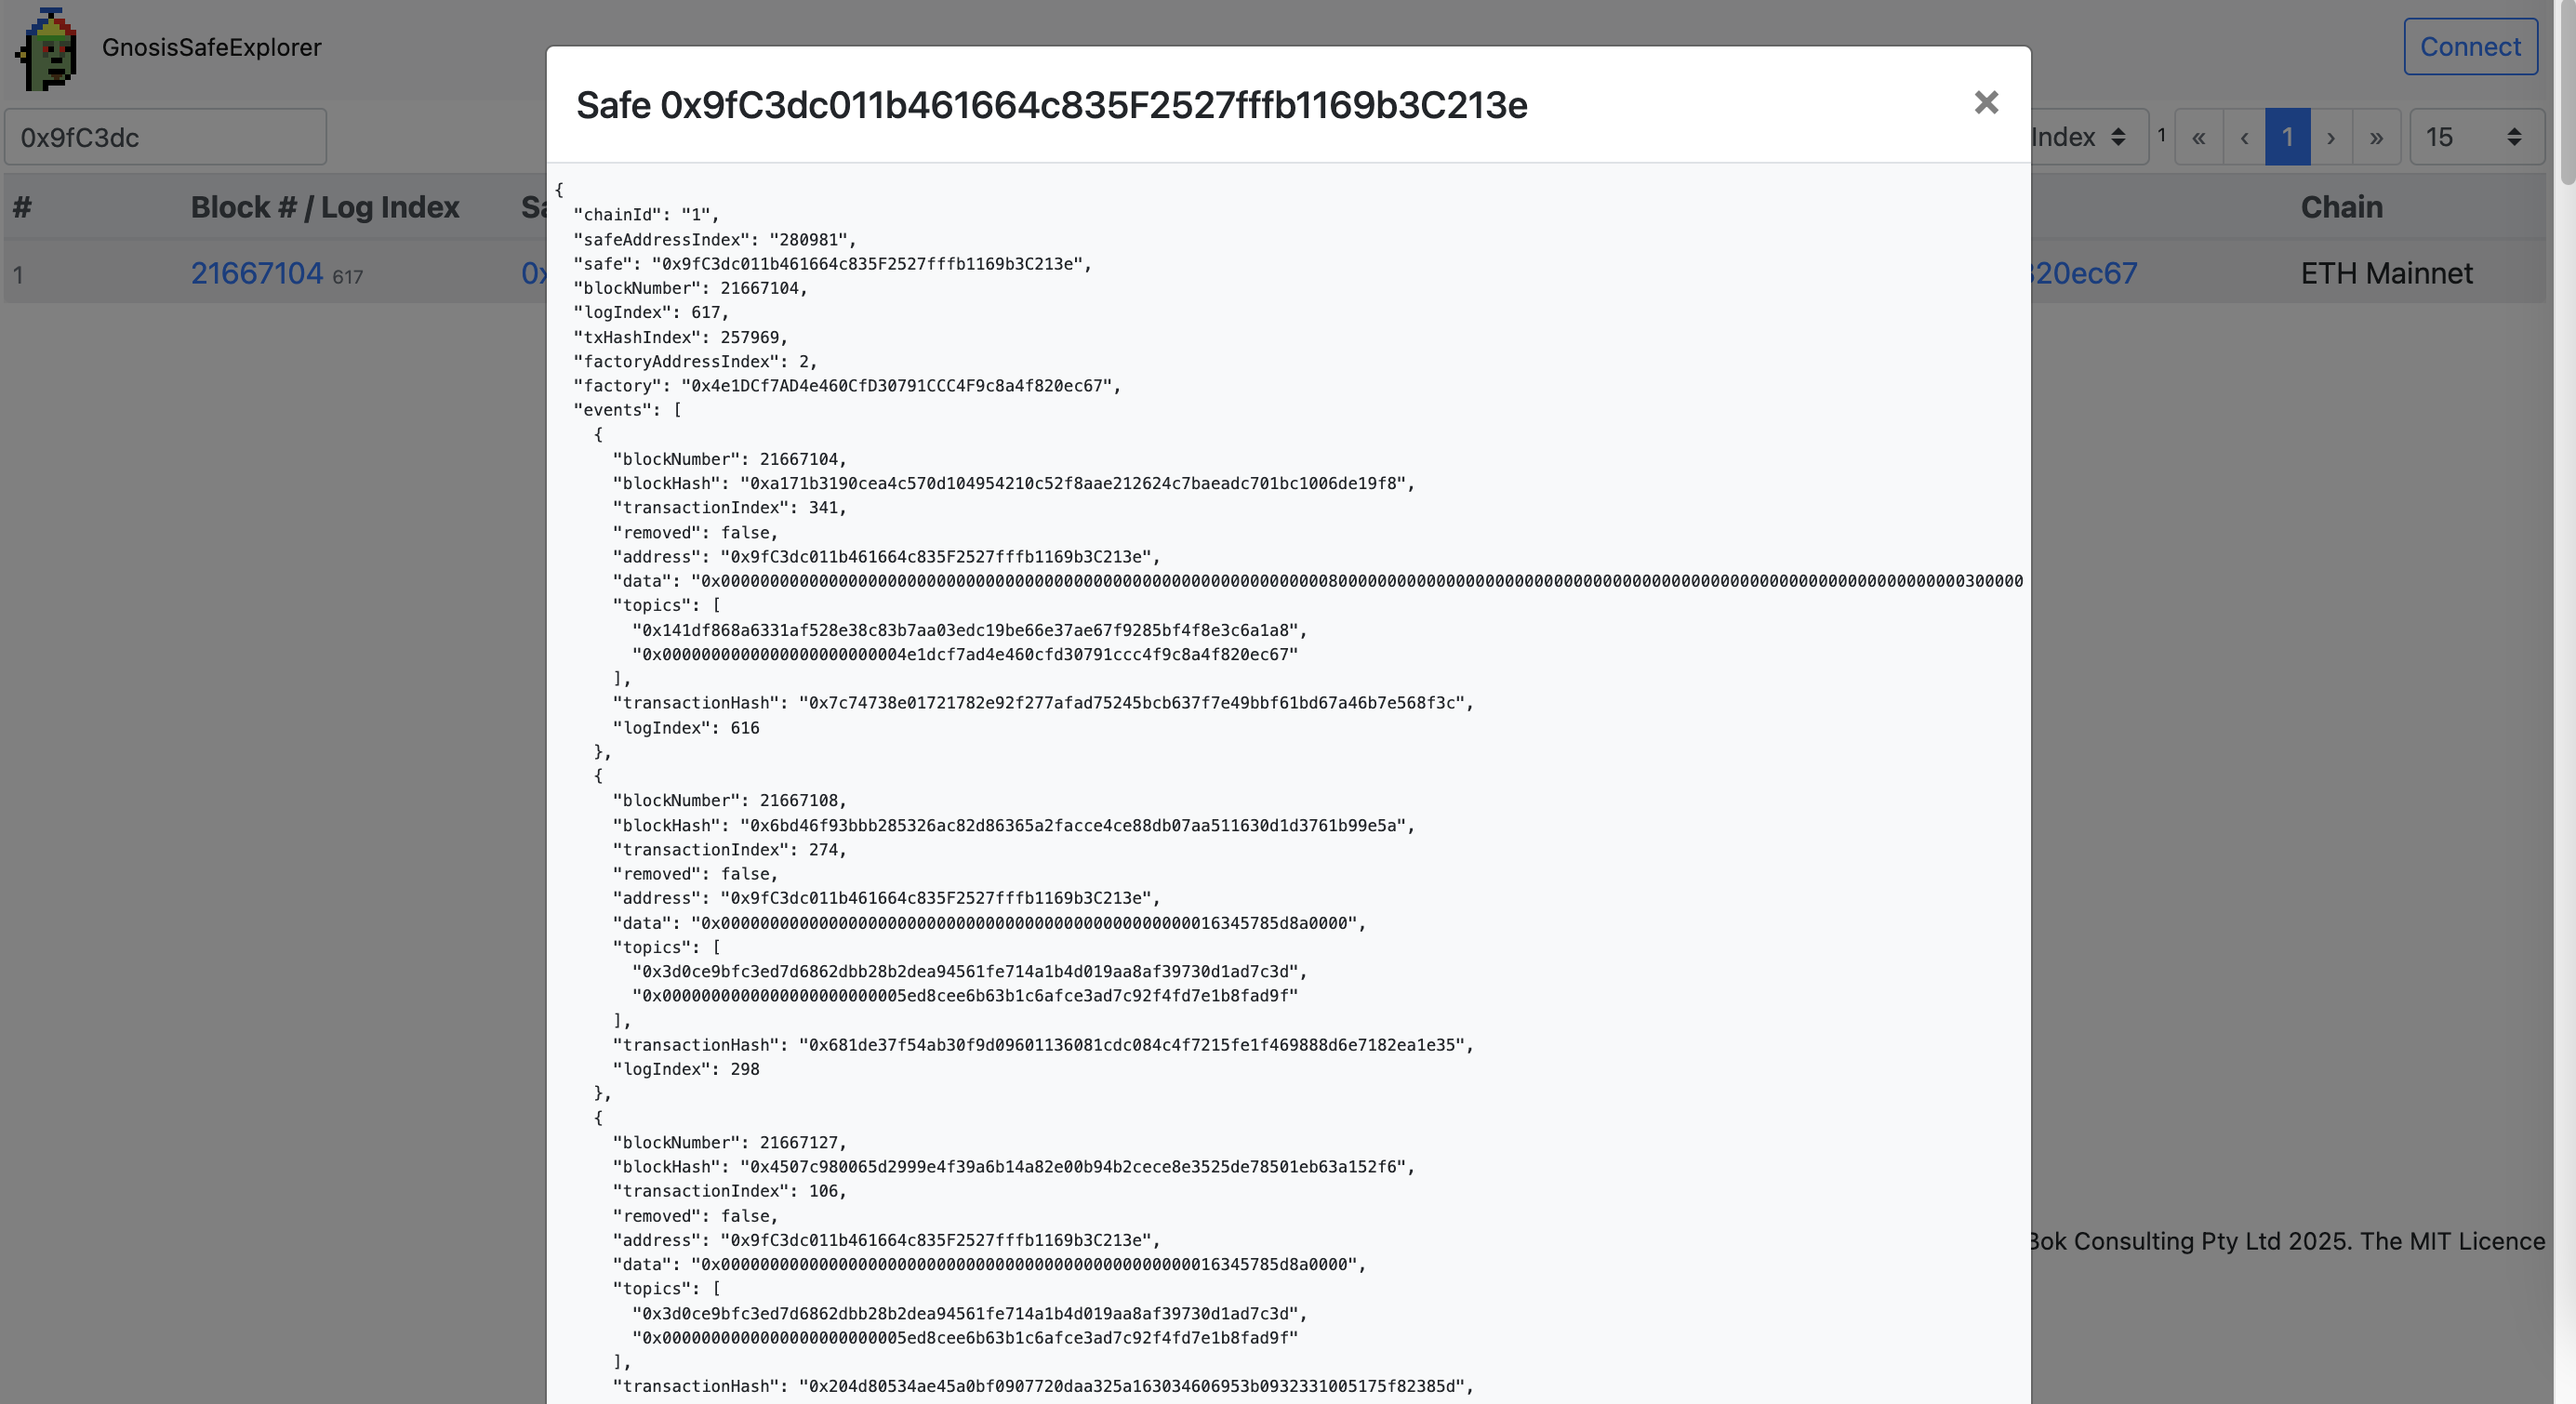
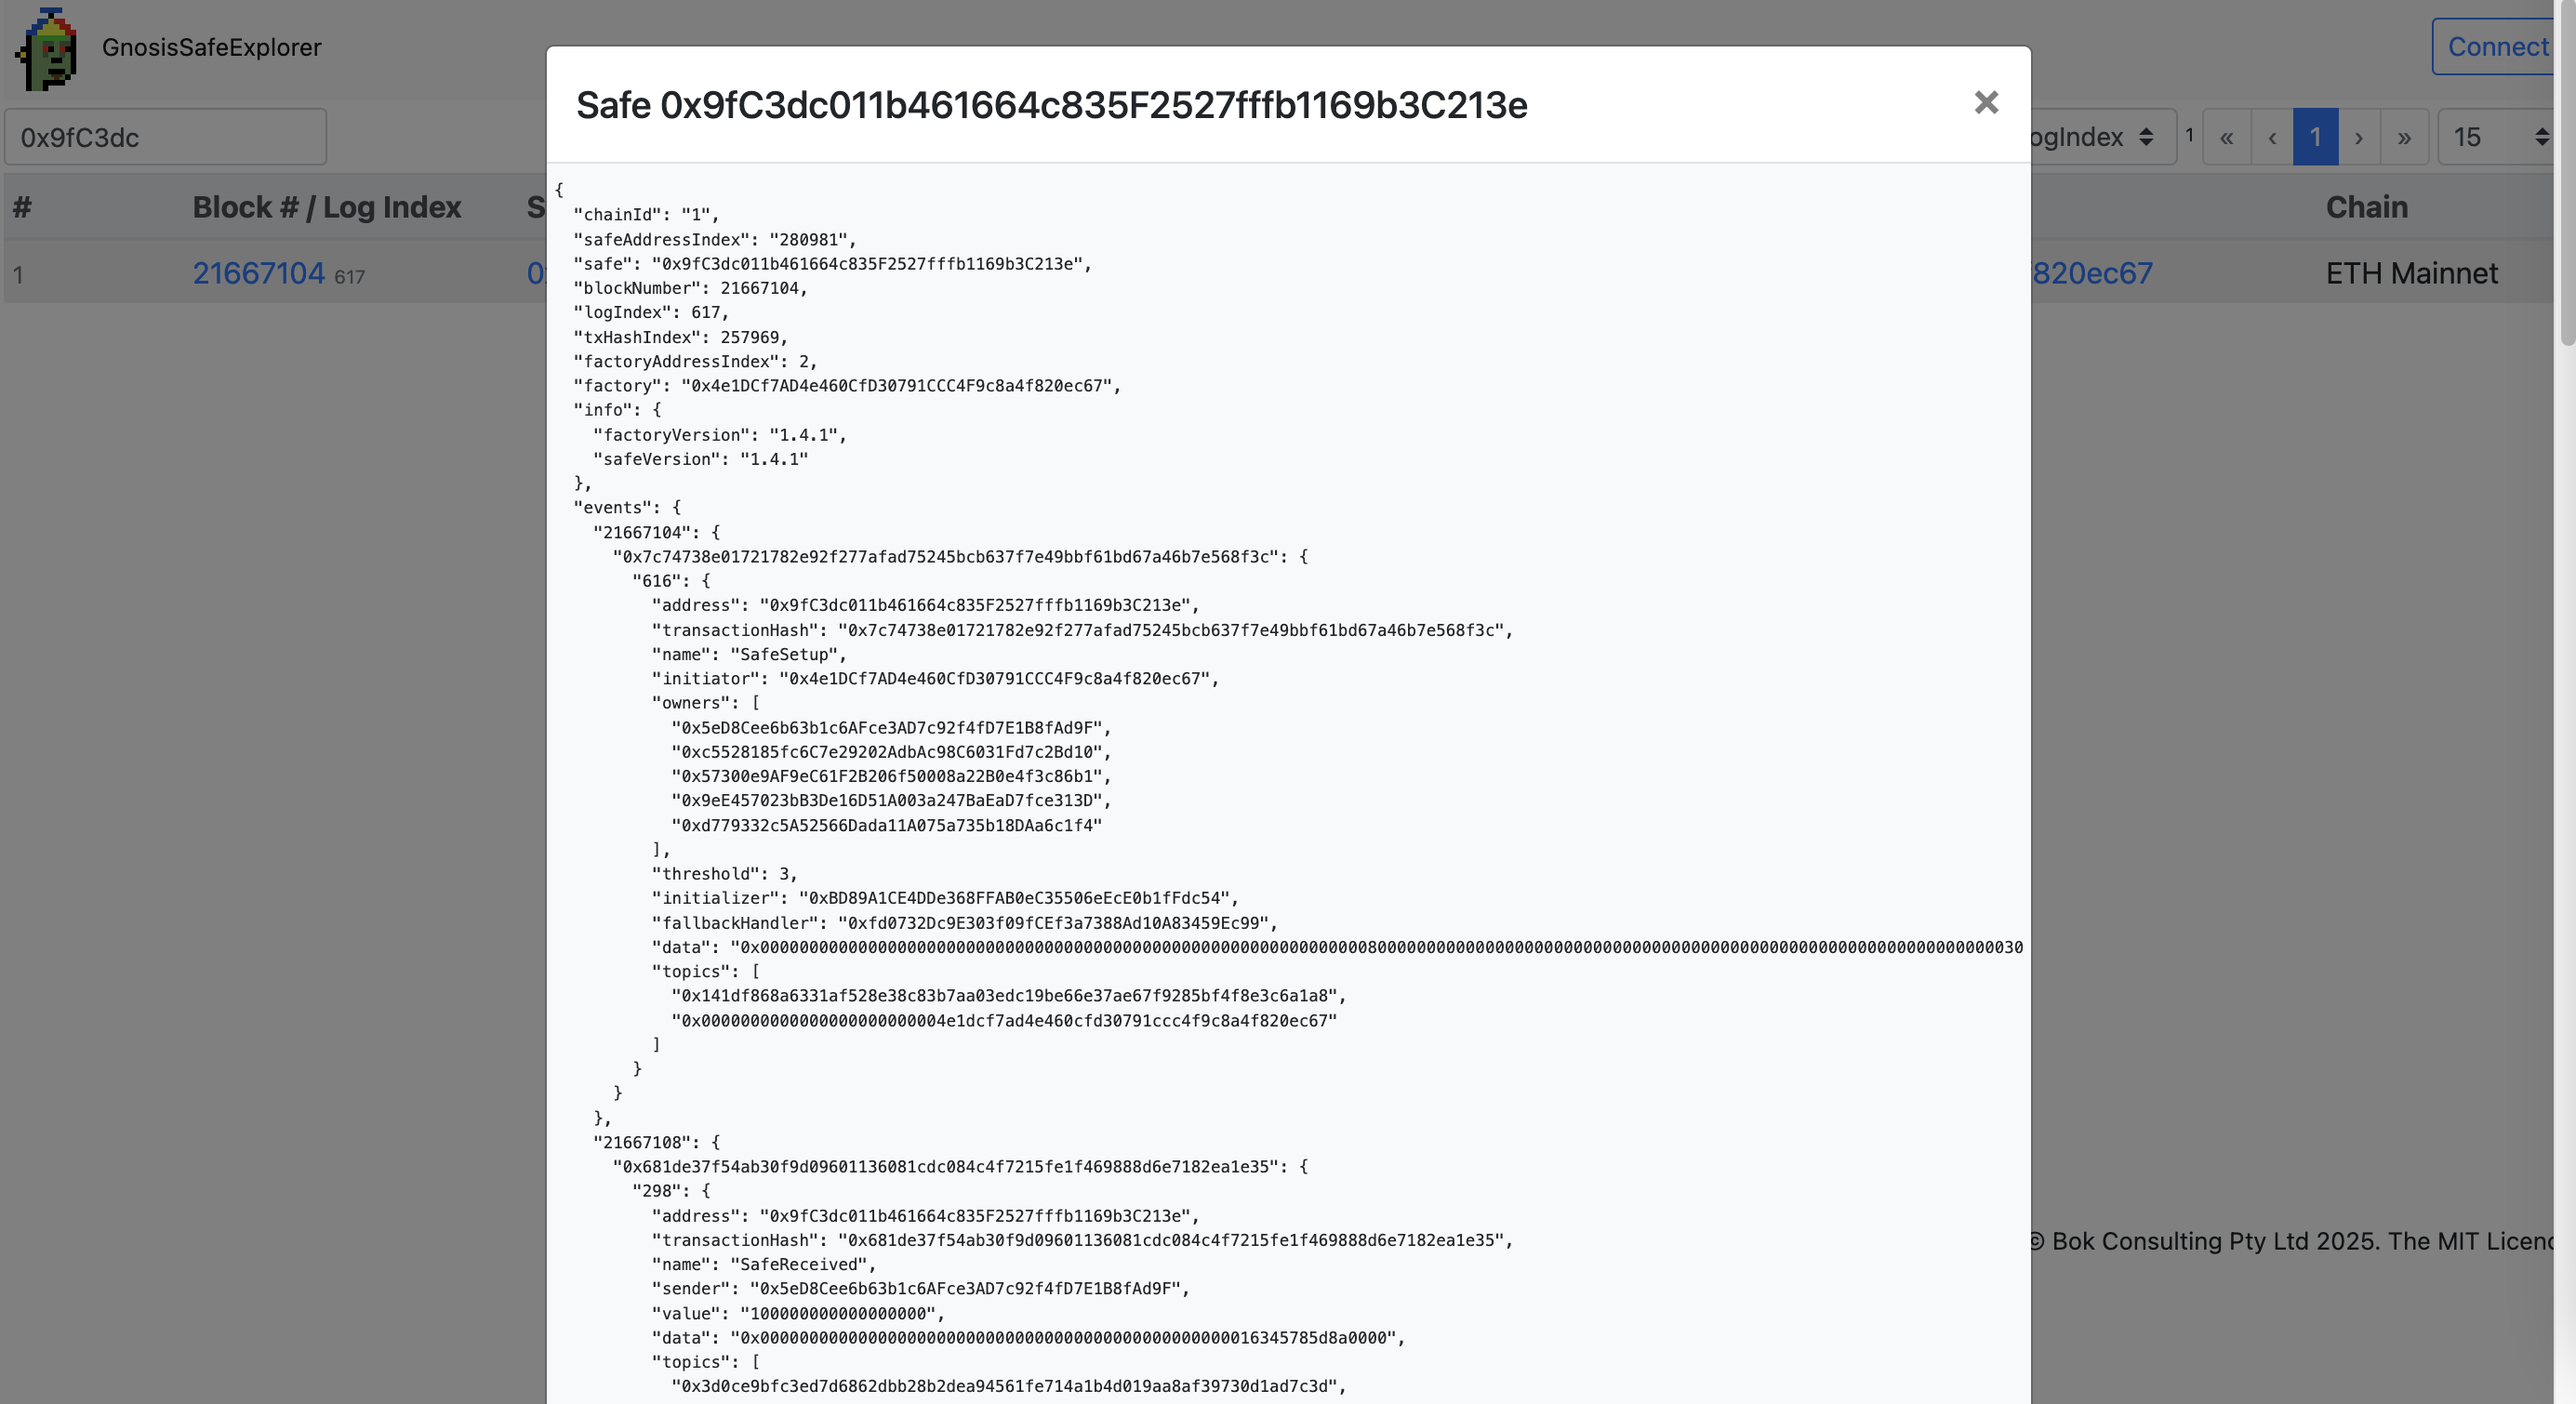
modalSafe wip

diff --git a/docs/index.html b/docs/index.html
@@ -449,13 +449,36 @@
                 // event ExecutionFailure(bytes32 indexed txHash, uint256 payment);
                 // event ChangedThreshold(uint256 threshold);
 
-                const logData = safeInterface.parseLog(log);
-                // const [operator, from, to, ids, values] = logData.args;
-                console.log(moment().format("HH:mm:ss") + " processSafeEvents - logData: " + JSON.stringify(logData, null, 2));
-
-                const eventName = logData.eventFragment.name;
-                const parameterNames = logData.eventFragment.inputs.map(({ name, type }) => ({ name, type }));
-                const parameters = logData.args;
+                const event = {};
+                try {
+                  const logData = safeInterface.parseLog(log);
+                  // console.log(moment().format("HH:mm:ss") + " processSafeEvents - logData: " + JSON.stringify(logData, null, 2));
+                  event.name = logData.eventFragment.name;
+                  if (event.name == "SafeSetup") {
+                    // event SafeSetup(address indexed initiator, address[] owners, uint256 threshold, address initializer, address fallbackHandler);
+                    const [initiator, owners, threshold, initializer, fallbackHandler] = logData.args;
+                    event.initiator = initiator;
+                    event.owners = owners;
+                    event.threshold = parseInt(threshold);
+                    event.initializer = initializer;
+                    event.fallbackHandler = fallbackHandler;
+                  } else if (event.name == "SafeReceived") {
+                    // event SafeReceived(address indexed sender, uint256 value);
+                    const [sender, value] = logData.args;
+                    event.sender = sender;
+                    event.value = ethers.BigNumber.from(value).toString();
+                  } else if (event.name == "ExecutionSuccess") {
+                    // event ExecutionSuccess(bytes32 indexed txHash, uint256 payment);
+                    const [txHash, payment] = logData.args;
+                    event.txHash = txHash;
+                    event.payment = ethers.BigNumber.from(payment).toString();
+                  } else {
+                    event.parameterNames = logData.eventFragment.inputs.map(({ name, type }) => ({ name, type }));
+                    event.parameters = logData.args;
+                  }
+                } catch (e) {
+                  event.name = "Unknown signature: " + log.topics[0];
+                }
 
                 if (!(log.blockNumber in this.modalSafe.events)) {
                   Vue.set(this.modalSafe.events, log.blockNumber, {});
@@ -467,11 +490,11 @@
                   Vue.set(this.modalSafe.events[log.blockNumber][log.transactionHash], log.logIndex, {
                     address: log.address,
                     transactionHash: log.transactionHash,
+                    ...event,
                     data: log.data,
                     topics: log.topics,
-                    eventName,
-                    parameterNames,
-                    parameters,
+                    // parameterNames,
+                    // parameters,
                   });
                 }
               }

diff --git a/README.md b/README.md
@@ -43,7 +43,8 @@ Search by Safe address
 
 Clicking on the row to view the Safe details
 
-<kbd><img src="images/SampleScreen04.png" width="800" /></kbd>
+<kbd><img src="images/SampleScreen04.png?a" width="800" /></kbd>
+<kbd><img src="images/SampleScreen05.png" width="800" /></kbd>
 
 
 <br />
